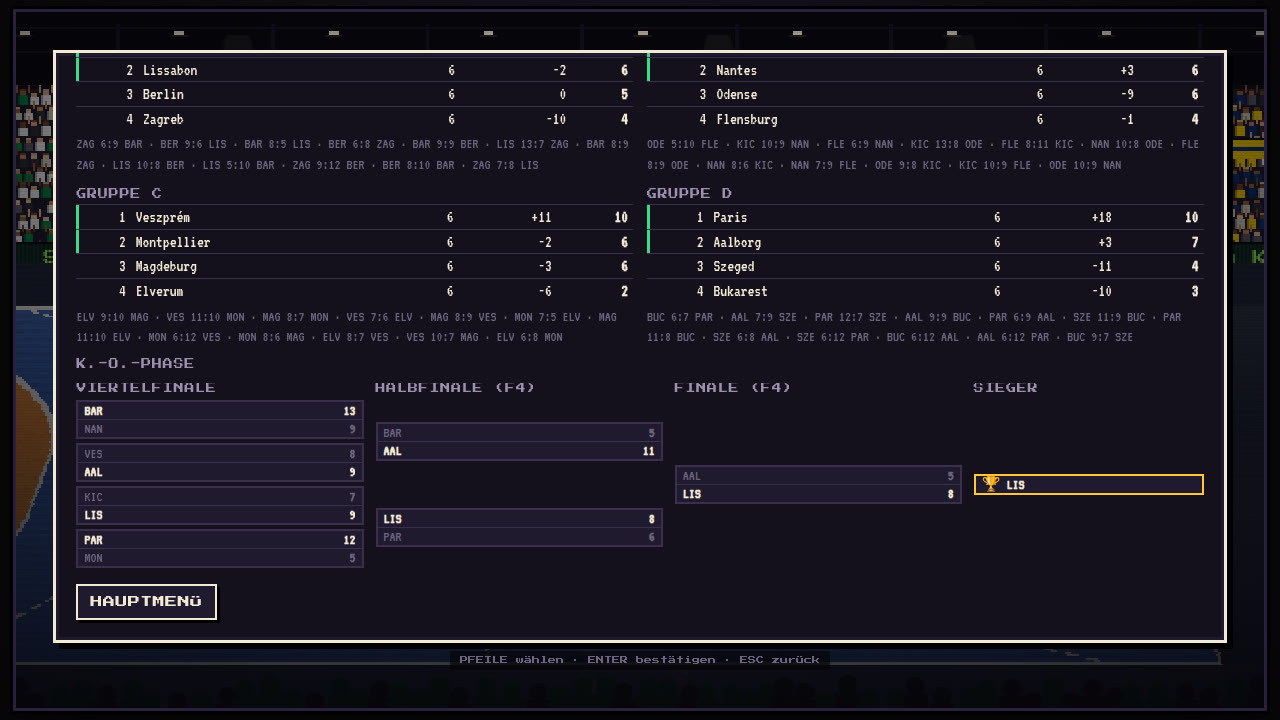
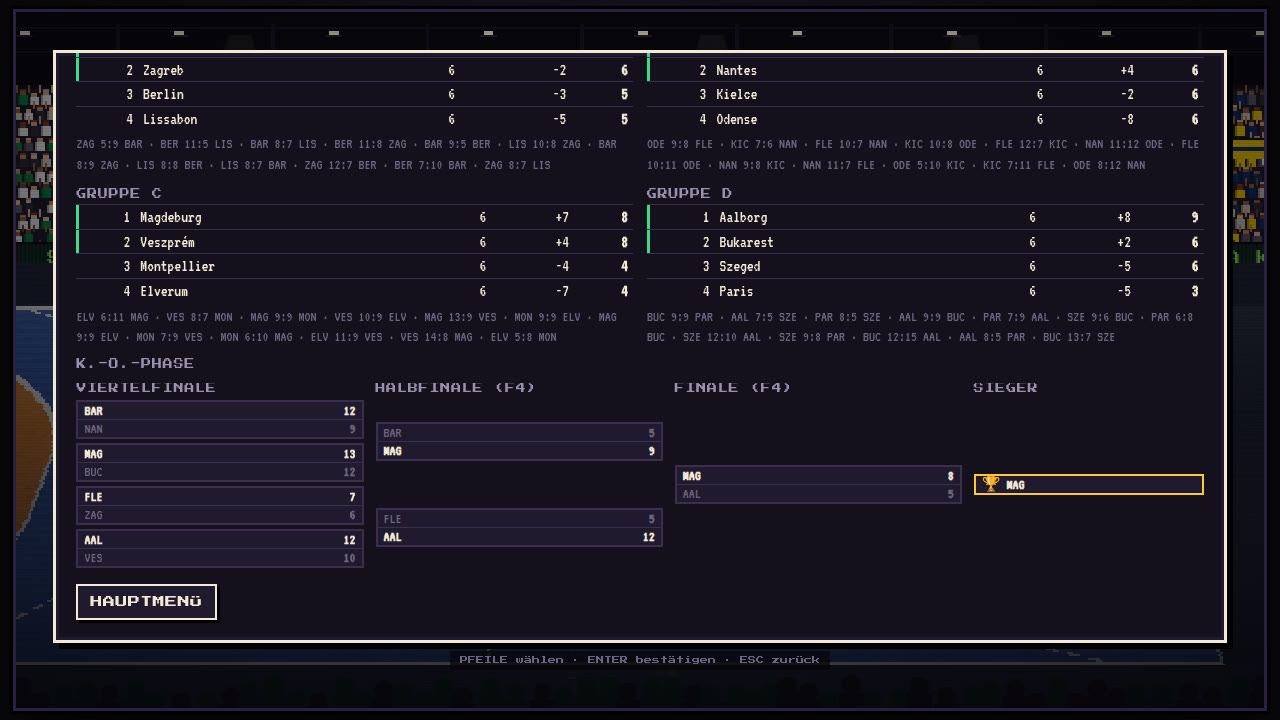
Screenshot-Werkzeug: Zufall vor jedem Aufnahmeschritt neu setzen
Das Demo-Spiel im Hintergrund verbraucht zwischen zwei Schritten Zufallszahlen,
dadurch wichen Kader, Europapokal und Teilen-Bild von Lauf zu Lauf ab. Jetzt
sind alle Menübilder pixelgleich (lokal und von der Deploy-Preview geprüft).

Claude-Session: https://claude.ai/code/session_01KKDZCGMYGcypLRLX9DG4SL

diff --git a/tools/promo/bilder.js b/tools/promo/bilder.js
@@ -8,6 +8,7 @@ const fs = require('fs'), path = require('path');
 const [OUT, BASE = 'http://localhost:8765'] = process.argv.slice(2);
 if (!OUT) { console.error('Aufruf: node bilder.js <ordner> [basis-url]'); process.exit(1); }
 fs.mkdirSync(OUT, { recursive: true });
+// Das Demo-Spiel im Hintergrund verbraucht laufend Zufallszahlen: daher vor jedem Schritt neu setzen (__seed)
 const SEED = s => { window.__seed = s => { let x = s; Math.random = () => (x = (x * 16807) % 2147483647) / 2147483647; }; window.__seed(s); window.AudioContext = window.webkitAudioContext = undefined; };
 
 (async () => {
@@ -28,10 +29,10 @@ const SEED = s => { window.__seed = s => { let x = s; Math.random = () => (x = (
   { const { p, ctx } = await open(2026);
     await p.evaluate(() => { __seed(2026); G = null; careerCreate(TEAMS.find(t => t.k === 'KIE').id, 1, 1, 1, true, 1); careerHub('home'); document.activeElement.blur(); });
     await shot(p, 'career-newspaper');
-    await p.evaluate(() => { let g = 0; while ((CAREER.season.round < 9 || cupDue() || euroDue()) && g++ < 40) ACT.cSim(); ACT.cTab('stats'); document.activeElement.blur(); });
+    await p.evaluate(() => { __seed(2027); let g = 0; while ((CAREER.season.round < 9 || cupDue() || euroDue()) && g++ < 40) ACT.cSim(); ACT.cTab('stats'); document.activeElement.blur(); });
     await shot(p, 'career-stats');
     await p.evaluate(() => { ACT.cTab('cup'); document.activeElement.blur(); }); await shot(p, 'career-cup');
-    await p.evaluate(() => { let g = 0; while ((!CAREER.season.done || cupDue() || euroDue()) && g++ < 80) ACT.cSim(); ACT.cTab('euro'); document.activeElement.blur(); const sc = [...menu.querySelectorAll('*')].find(e => e.scrollHeight > e.clientHeight + 20 && /auto|scroll/.test(getComputedStyle(e).overflowY)); if (sc) sc.scrollTop = sc.scrollHeight; });
+    await p.evaluate(() => { __seed(2028); let g = 0; while ((!CAREER.season.done || cupDue() || euroDue()) && g++ < 80) ACT.cSim(); ACT.cTab('euro'); document.activeElement.blur(); const sc = [...menu.querySelectorAll('*')].find(e => e.scrollHeight > e.clientHeight + 20 && /auto|scroll/.test(getComputedStyle(e).overflowY)); if (sc) sc.scrollTop = sc.scrollHeight; });
     await shot(p, 'career-euro');   /* ans Ende gescrollt: K.-o.-Phase bis zum Sieger */ await ctx.close(); }
 
   // Vor dem Spiel: Kiel in der Rückrunde, Vergleich mit Form, Bilanz, Sternen und Hinspiel
@@ -47,8 +48,8 @@ const SEED = s => { window.__seed = s => { let x = s; Math.random = () => (x = (
       ACT.cTab('trophy'); document.activeElement.blur();
     });
     await shot(p, 'career-trophies');
-    await p.evaluate(() => { for (let i = 0; i < 8; i++) ACT.cSim(); ACT.cTab('squad'); document.activeElement.blur(); }); await shot(p, 'career-squad');
-    await p.evaluate(() => shareCard('career')); await p.waitForSelector('#menu img.sharecard'); await p.waitForTimeout(300);
+    await p.evaluate(() => { __seed(20); for (let i = 0; i < 8; i++) ACT.cSim(); ACT.cTab('squad'); document.activeElement.blur(); }); await shot(p, 'career-squad');
+    await p.evaluate(() => { __seed(21); return shareCard('career'); }); await p.waitForSelector('#menu img.sharecard'); await p.waitForTimeout(300);
     await shot(p, 'share-card'); await ctx.close(); }
 
   // Handy quer: Spielfeld über die volle Breite, durchscheinende Touch-Knöpfe

diff --git a/CHANGELOG.md b/CHANGELOG.md
@@ -11,7 +11,7 @@ Alle Versionen bis v7.8 entstanden am 1. Oktober 2026 in einer durchgehenden Ent
 - **SIMULIEREN direkt in der Vorschau:** Wer den Gegner gesehen hat, kann das Spiel von dort aus simulieren lassen.
 - Am Handy im Hochformat steht das Hinspiel zwischen den beiden Teamkarten.
 - **Namen mit Ć, Š, Ž, Ł und Co.** (zum Beispiel Petrović, Kovač) erscheinen jetzt auch im Spielfeld, in den Aufstellungen und auf dem Teilen-Bild richtig. Die Pixelschrift lud ihren erweiterten Zeichensatz bisher nicht, stattdessen erschienen falsche Zeichen wie „PETROVI(“.
-- **README-Screenshots:** neu sind Vor dem Spiel, Erfolge, Kader mit Potenzial, Teilen-Bild und Handy im Querformat. Teamauswahl, Zeitung, Statistik, Pokal und Europapokal sind neu aufgenommen (vorher fehlten die Tabs EUROPA und ERFOLGE). Die Landingpage nutzt dieselben Bilder. `sh tools/promo/promo.sh bilder` nimmt alle jederzeit neu auf, mit festem Zufall.
+- **README-Screenshots:** neu sind Vor dem Spiel, Erfolge, Kader mit Potenzial, Teilen-Bild und Handy im Querformat. Teamauswahl, Zeitung, Statistik, Pokal und Europapokal sind neu aufgenommen (vorher fehlten die Tabs EUROPA und ERFOLGE). Die Landingpage nutzt dieselben Bilder. `sh tools/promo/promo.sh bilder` nimmt alle jederzeit neu auf, mit festem Zufall (die Menübilder sind bei jedem Lauf pixelgleich).
 - 1 neuer Regressionstest (Sterne, Form, Bilanz, Topwerfer, Hinspiel, SIMULIEREN aus der Vorschau, Freundschaftsspiel ohne Form), insgesamt 33. Der Ladetest prüft jetzt auch, dass beide Zeichensätze der Pixelschrift geladen sind
 
 ## v8.7: Erfolge und Teilen
